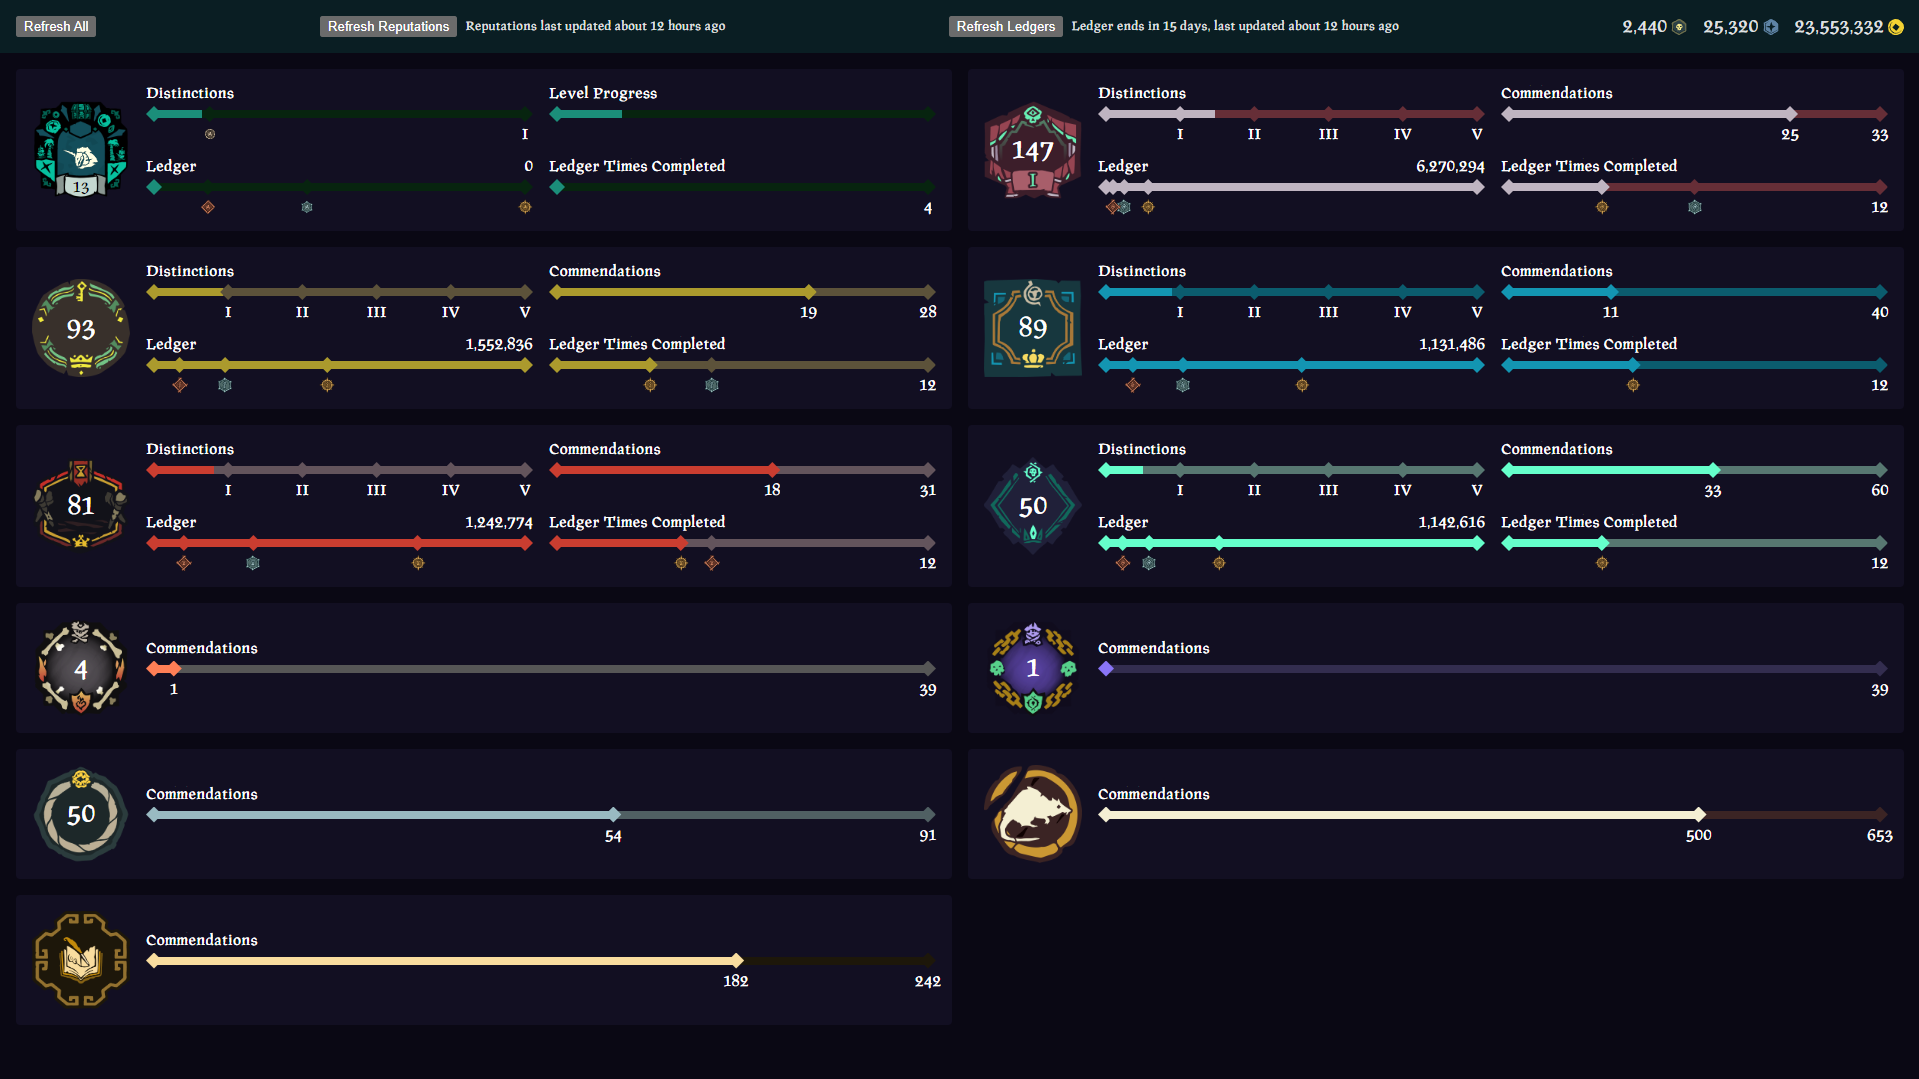
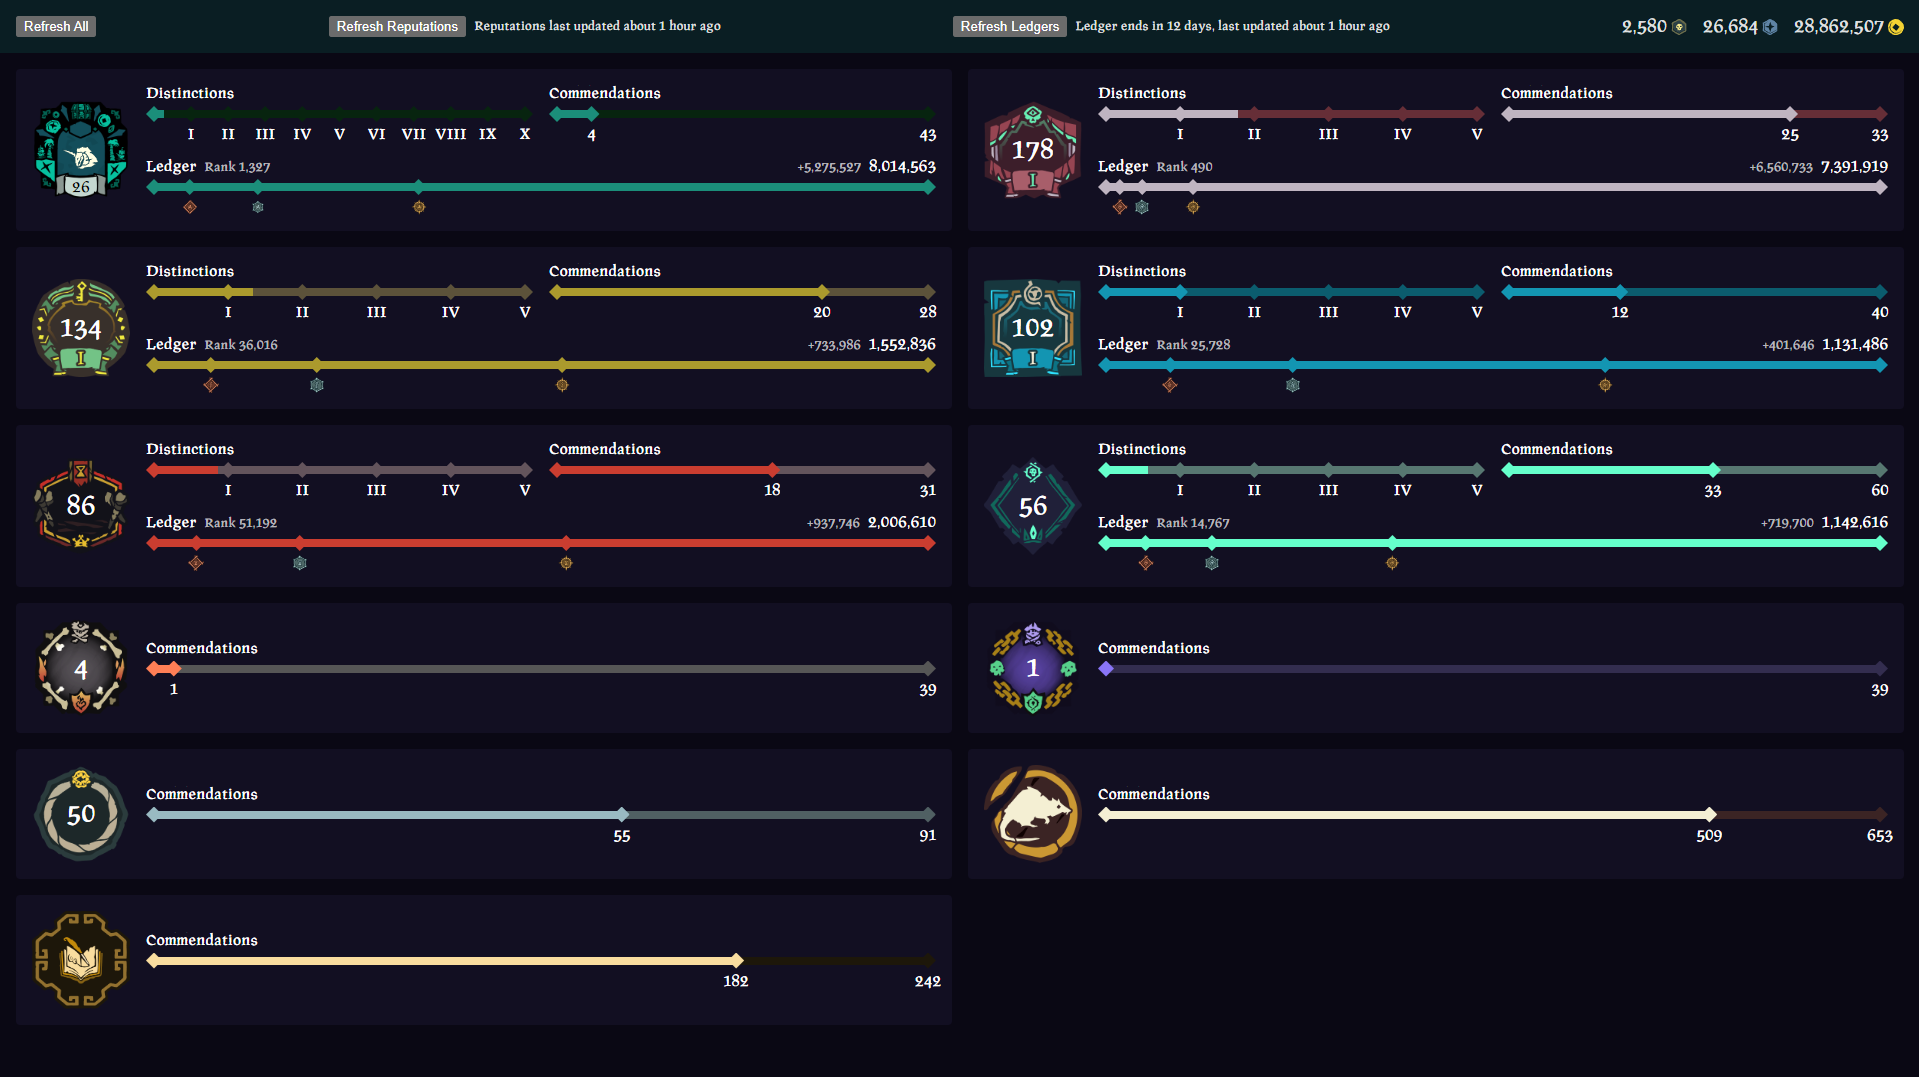
feat: update ledger + guild distinctions and commendations UI

diff --git a/src/components/Faction.tsx b/src/components/Faction.tsx
@@ -25,10 +25,8 @@ const Faction: FC<FactionProps> = ({ faction, ledger }) => {
   const factionIdOrGuild = useMemo(() => faction.guild ? 'Guilds' : faction.id, [faction.guild, faction.id]);
   const [commendationModalOpen, setCommendationModalOpen] = useState<boolean>(false);
   const distinctionProgressId = useMemo(() => `${faction.id}-distinction-progress`, [faction.id]);
-  const levelProgressId = useMemo(() => `${faction.id}-level-progress`, [faction.id]);
   const commendationProgressId = useMemo(() => `${faction.id}-commendation-progress`, [faction.id]);
   const ledgerProgressId = useMemo(() => `${faction.id}-ledger-progress`, [faction.id]);
-  const ledgerCompletionProgressId = useMemo(() => `${faction.id}-ledger-completion-progress`, [faction.id]);
 
   const className = useMemo(() => `faction ${faction.id}${faction.guild ? ' Guilds' : ''}`, [faction.id, faction.guild]);
   const style = useMemo<FactionProgressionCssProperties>(() => {
@@ -42,30 +40,12 @@ const Faction: FC<FactionProps> = ({ faction, ledger }) => {
   }, [config, faction]);
 
   const distinctionMarkers = useMemo<ProgressMarker[]>(() => {
-    if (faction.guild) {
-      if (!config) {
-        return [];
-      }
-
-      return [
-        {
-          label: '15',
-          value: 15,
-          image: `${config.cdnUrl}${ledgerBandImagePath(factionIdOrGuild, 3)}`
-        },
-        {
-          label: 'I',
-          value: 100,
-        }
-      ]
-    }
-
-    if (faction.maxLevel <= 100 || faction.maxLevel > 500) {
+    if (faction.maxLevel <= 100 || faction.maxLevel > 1000) {
       return [];
     }
 
-    return generateDistinctionMarkers();
-  }, [faction.maxLevel, faction.guild, config, factionIdOrGuild]);
+    return generateDistinctionMarkers(faction.maxLevel);
+  }, [faction.maxLevel]);
 
   const ledgerMax = useMemo(() => {
     return ledger ? Math.max(ledger.bands[0].thresholdScore, ledger.score) : 0;
@@ -78,7 +58,7 @@ const Faction: FC<FactionProps> = ({ faction, ledger }) => {
 
     const m: ProgressMarker[] = ledger.bands.map((band, i) => ({
       value: band.thresholdScore,
-      label: formatNumber(band.thresholdScore),
+      label: `Threshold Score: ${formatNumber(band.thresholdScore)}\nCompleted ${band.level} times out of ${ledger.maxLevel}`,
       image: `${config.cdnUrl}${ledgerBandImagePath(factionIdOrGuild, i)}`
     }));
 
@@ -92,39 +72,17 @@ const Faction: FC<FactionProps> = ({ faction, ledger }) => {
     return m;
   }, [ledger, factionIdOrGuild, config]);
 
-  const ledgerCompletionMakers = useMemo(() => {
-    if (!ledger || !config) {
-      return [];
+  const ledgerDiff = useMemo(() => {
+    if (!ledger) {
+      return '';
     }
 
-    const ms: ProgressMarker[] = [];
-    let currentLevel = 0;
+    const diff = ledger.score - ledger.bands[0].thresholdScore;
 
-    for (let i = 0; i < ledger.bands.length; i++) {
-      const band = ledger.bands[i];
+    return `${diff > 0 ? '+' : '-'}${formatNumber(diff)}`;
+  }, [ledger]);
 
-      if (currentLevel === band.level) {
-        continue;
-      }
-
-      currentLevel = band.level;
-
-      ms.push({
-        label: band.level.toFixed(),
-        value: band.level,
-        image: `${config.cdnUrl}${ledgerBandImagePath(factionIdOrGuild, i)}`
-      });
-    }
-
-    if (currentLevel !== ledger.maxLevel) {
-      ms.push({
-        label: ledger.maxLevel.toFixed(),
-        value: ledger.maxLevel,
-      })
-    }
-
-    return ms;
-  }, [ledger, factionIdOrGuild, config]);
+  const ledgerRank = useMemo(() => `${ledger ? `Rank ${formatNumber(ledger.rank)}` : ''}`, [ledger]);
 
   const onFactionClick = () => {
     setCommendationModalOpen(true);
@@ -137,11 +95,16 @@ const Faction: FC<FactionProps> = ({ faction, ledger }) => {
         {faction.maxLevel !== 0 && <span className='faction-progression__level'>{faction.level}</span>}
       </div>
       <div className='faction__progress-bars'>
-        {faction.maxLevel > 50 && faction.maxLevel <= 500 && <Progress id={distinctionProgressId} startLabel='Distinctions' max={faction.maxLevel} value={faction.level} markers={distinctionMarkers}/>}
-        {!faction.guild && <Progress id={commendationProgressId} startLabel='Commendations' max={faction.commendationsTotal} value={faction.commendationsUnlocked}/>}
-        {faction.guild && <Progress id={levelProgressId} startLabel='Level Progress' max={100} value={faction.levelProgress * 100} hideMarkerLabels />}
-        {ledger && <Progress id={ledgerProgressId} startLabel='Ledger' endLabel={<span>{formatNumber(ledger.score)}</span>} max={ledgerMax} value={ledger.score} markers={ledgerMarkers} />}
-        {ledger && <Progress id={ledgerCompletionProgressId} startLabel='Ledger Times Completed' max={ledger.maxLevel} value={ledger.bands[0].level} markers={ledgerCompletionMakers} />}
+        {distinctionMarkers.length > 0 && <Progress id={distinctionProgressId} startLabel='Distinctions' max={faction.maxLevel} value={faction.level} markers={distinctionMarkers}/>}
+        <Progress id={commendationProgressId} startLabel='Commendations' max={faction.commendationsTotal} value={faction.commendationsUnlocked}/>
+        {ledger && <Progress id={ledgerProgressId}
+          className='ledger-progress'
+          startLabel={<div className='ledger-label'><span>Ledger</span>{ledgerRank && <span className='ledger-label__secondary'>{ledgerRank}</span>}</div>}
+          endLabel={<div className='ledger-label'><span className='ledger-label__secondary'>{ledgerDiff}</span><span>{formatNumber(ledger.score)}</span></div>}
+          max={ledgerMax}
+          value={ledger.score}
+          markers={ledgerMarkers}
+        />}
       </div>
     </button>
     <CommendationsModal id={faction.id} open={commendationModalOpen} title={faction.name} closeClick={() => setCommendationModalOpen(false)} campaigns={faction.campaigns} />

diff --git a/src/components/Progress.tsx b/src/components/Progress.tsx
@@ -19,8 +19,9 @@ type ProgressMarkerProps = {
 
 type ProgressProps = {
   id: string;
-  startLabel: string;
-  endLabel?: ReactElement;
+  className?: string;
+  startLabel: string | ReactElement;
+  endLabel?: string | ReactElement;
   value: number;
   max: number;
   markers?: ProgressMarker[];
@@ -51,7 +52,8 @@ const ProgressMarker: FC<ProgressMarkerProps> = ({ label, value, max, currentVal
   </div>
 }
 
-const Progress: FC<ProgressProps> = ({ id, startLabel, endLabel, value, max, markers = [], hideMarkerLabels = false }) => {
+const Progress: FC<ProgressProps> = ({ id, className: _className, startLabel, endLabel, value, max, markers = [], hideMarkerLabels = false }) => {
+  const className = useMemo(() => ['progress', ...(_className?.split(' ') ?? [])].join(' '), [_className]);
   const markersId = useMemo(() => `${id}__markers`, [id]);
   const _markers = useMemo(() => {
     if (markers.length === 0) {
@@ -72,10 +74,10 @@ const Progress: FC<ProgressProps> = ({ id, startLabel, endLabel, value, max, mar
     ]
   }, [markers, max, value, hideMarkerLabels]);
 
-  return <div className='progress'>
+  return <div className={className}>
     <label htmlFor={id} className='progress__label'>
-      <span>{startLabel}</span>
-      {endLabel}
+      {typeof startLabel === 'string' ? <span>{startLabel}</span> : <>{startLabel}</>}
+      {typeof endLabel === 'string' ? <span>{endLabel}</span> : <>{endLabel}</>}
     </label>
     <div className='progress__wrapper'>
       <progress id={id} className='progress__progress'  max={max} value={value} />

diff --git a/src/components/Faction.scss b/src/components/Faction.scss
@@ -82,7 +82,8 @@ $factions: (
     grid-gap: var(--spacing-l);
     flex: 1;
 
-    .progress:first-child:nth-last-child(1) {
+    .progress:first-child:nth-last-child(1), 
+    .ledger-progress {
       grid-column: span 2;
     }
   }
@@ -95,6 +96,17 @@ $factions: (
 
   &:hover {
     box-shadow: 0 0 var(--spacing-m) 0 var(--faction-value-color);
+  }
+
+  .ledger-label {
+    display: flex;
+    align-items: center;
+    gap: var(--spacing-m);
+
+    &__secondary {
+      font-size: 10px;
+      color: var(--font-secondary-color);
+    }
   }
 }
 

diff --git a/src/lib/generateDistinctionMarkers.ts b/src/lib/generateDistinctionMarkers.ts
@@ -1,8 +1,9 @@
 import type { ProgressMarker } from '../components/Progress';
 import romanize from './romanize';
 
-export default function generateDistinctionMarkers(): ProgressMarker[] {
-  return [1, 2, 3, 4, 5].map((n) => ({
+export default function generateDistinctionMarkers(maxLevel: number): ProgressMarker[] {
+  const numberOfDistinctions = Math.round(maxLevel / 100);
+  return Array.from({length: numberOfDistinctions}, (_, i) => i + 1).map((n) => ({
     label: romanize(n),
     value: n * 100
   }));

diff --git a/src/lib/transform/to-ledger.ts b/src/lib/transform/to-ledger.ts
@@ -17,6 +17,7 @@ export function toLedger(factionIdOrGuild: string, ledger: SOTLedgerResponse): L
   return {
     maxLevel: getLedgerMaxLevel(factionIdOrGuild),
     score: ledger.current.global.user.score,
+    rank: ledger.current.global.user.rank,
     bands: ledger.current.global.Bands.filter(b => !b.IsUnrankedBand).map(b => toLedgerBand(factionIdOrGuild, b)),
     endDate: new Date(ledger.current.global.EndDate),
   };

diff --git a/src/lib/transform/max-level.ts b/src/lib/transform/max-level.ts
@@ -5,9 +5,9 @@ const maxLevel: {[factionIdOrGuild: string]: number} = {
   MerchantAlliance: 500,
   OrderOfSouls: 500,
   HuntersCall: 50,
-  Guilds: 100,
-  PirateLord: 1000,
-  Flameheart: 1000,
+  Guilds: 1000,
+  PirateLord: 1001,
+  Flameheart: 1001,
 };
 
 export default function getMaxLevel(factionIdOrGuild: string): number {

diff --git a/src/index.scss b/src/index.scss
@@ -9,6 +9,7 @@
   font-weight: 400;
 
   --font-color: rgba(255, 255, 255, 0.87);
+  --font-secondary-color: rgba(255, 255, 255, 0.70);
   --body-background-color: #0A0814;
   --body-background-color-lighter: #120F22;
   --body-secondary-background-color: #0A1E23;

diff --git a/src/components/Progress.scss b/src/components/Progress.scss
@@ -67,7 +67,9 @@
   }
 
   &__marker-image {
-    width: var(--spacing-l);
-    height: var(--spacing-l);
+    --marker-image-size: var(--spacing-l);
+
+    width: var(--marker-image-size);
+    height: var(--marker-image-size);
   }
 }

diff --git a/src/models/ledger.ts b/src/models/ledger.ts
@@ -7,5 +7,6 @@ export type Ledger = {
   bands: LedgerBand[];
   maxLevel: number;
   score: number;
+  rank: number;
   endDate: Date;
 }
